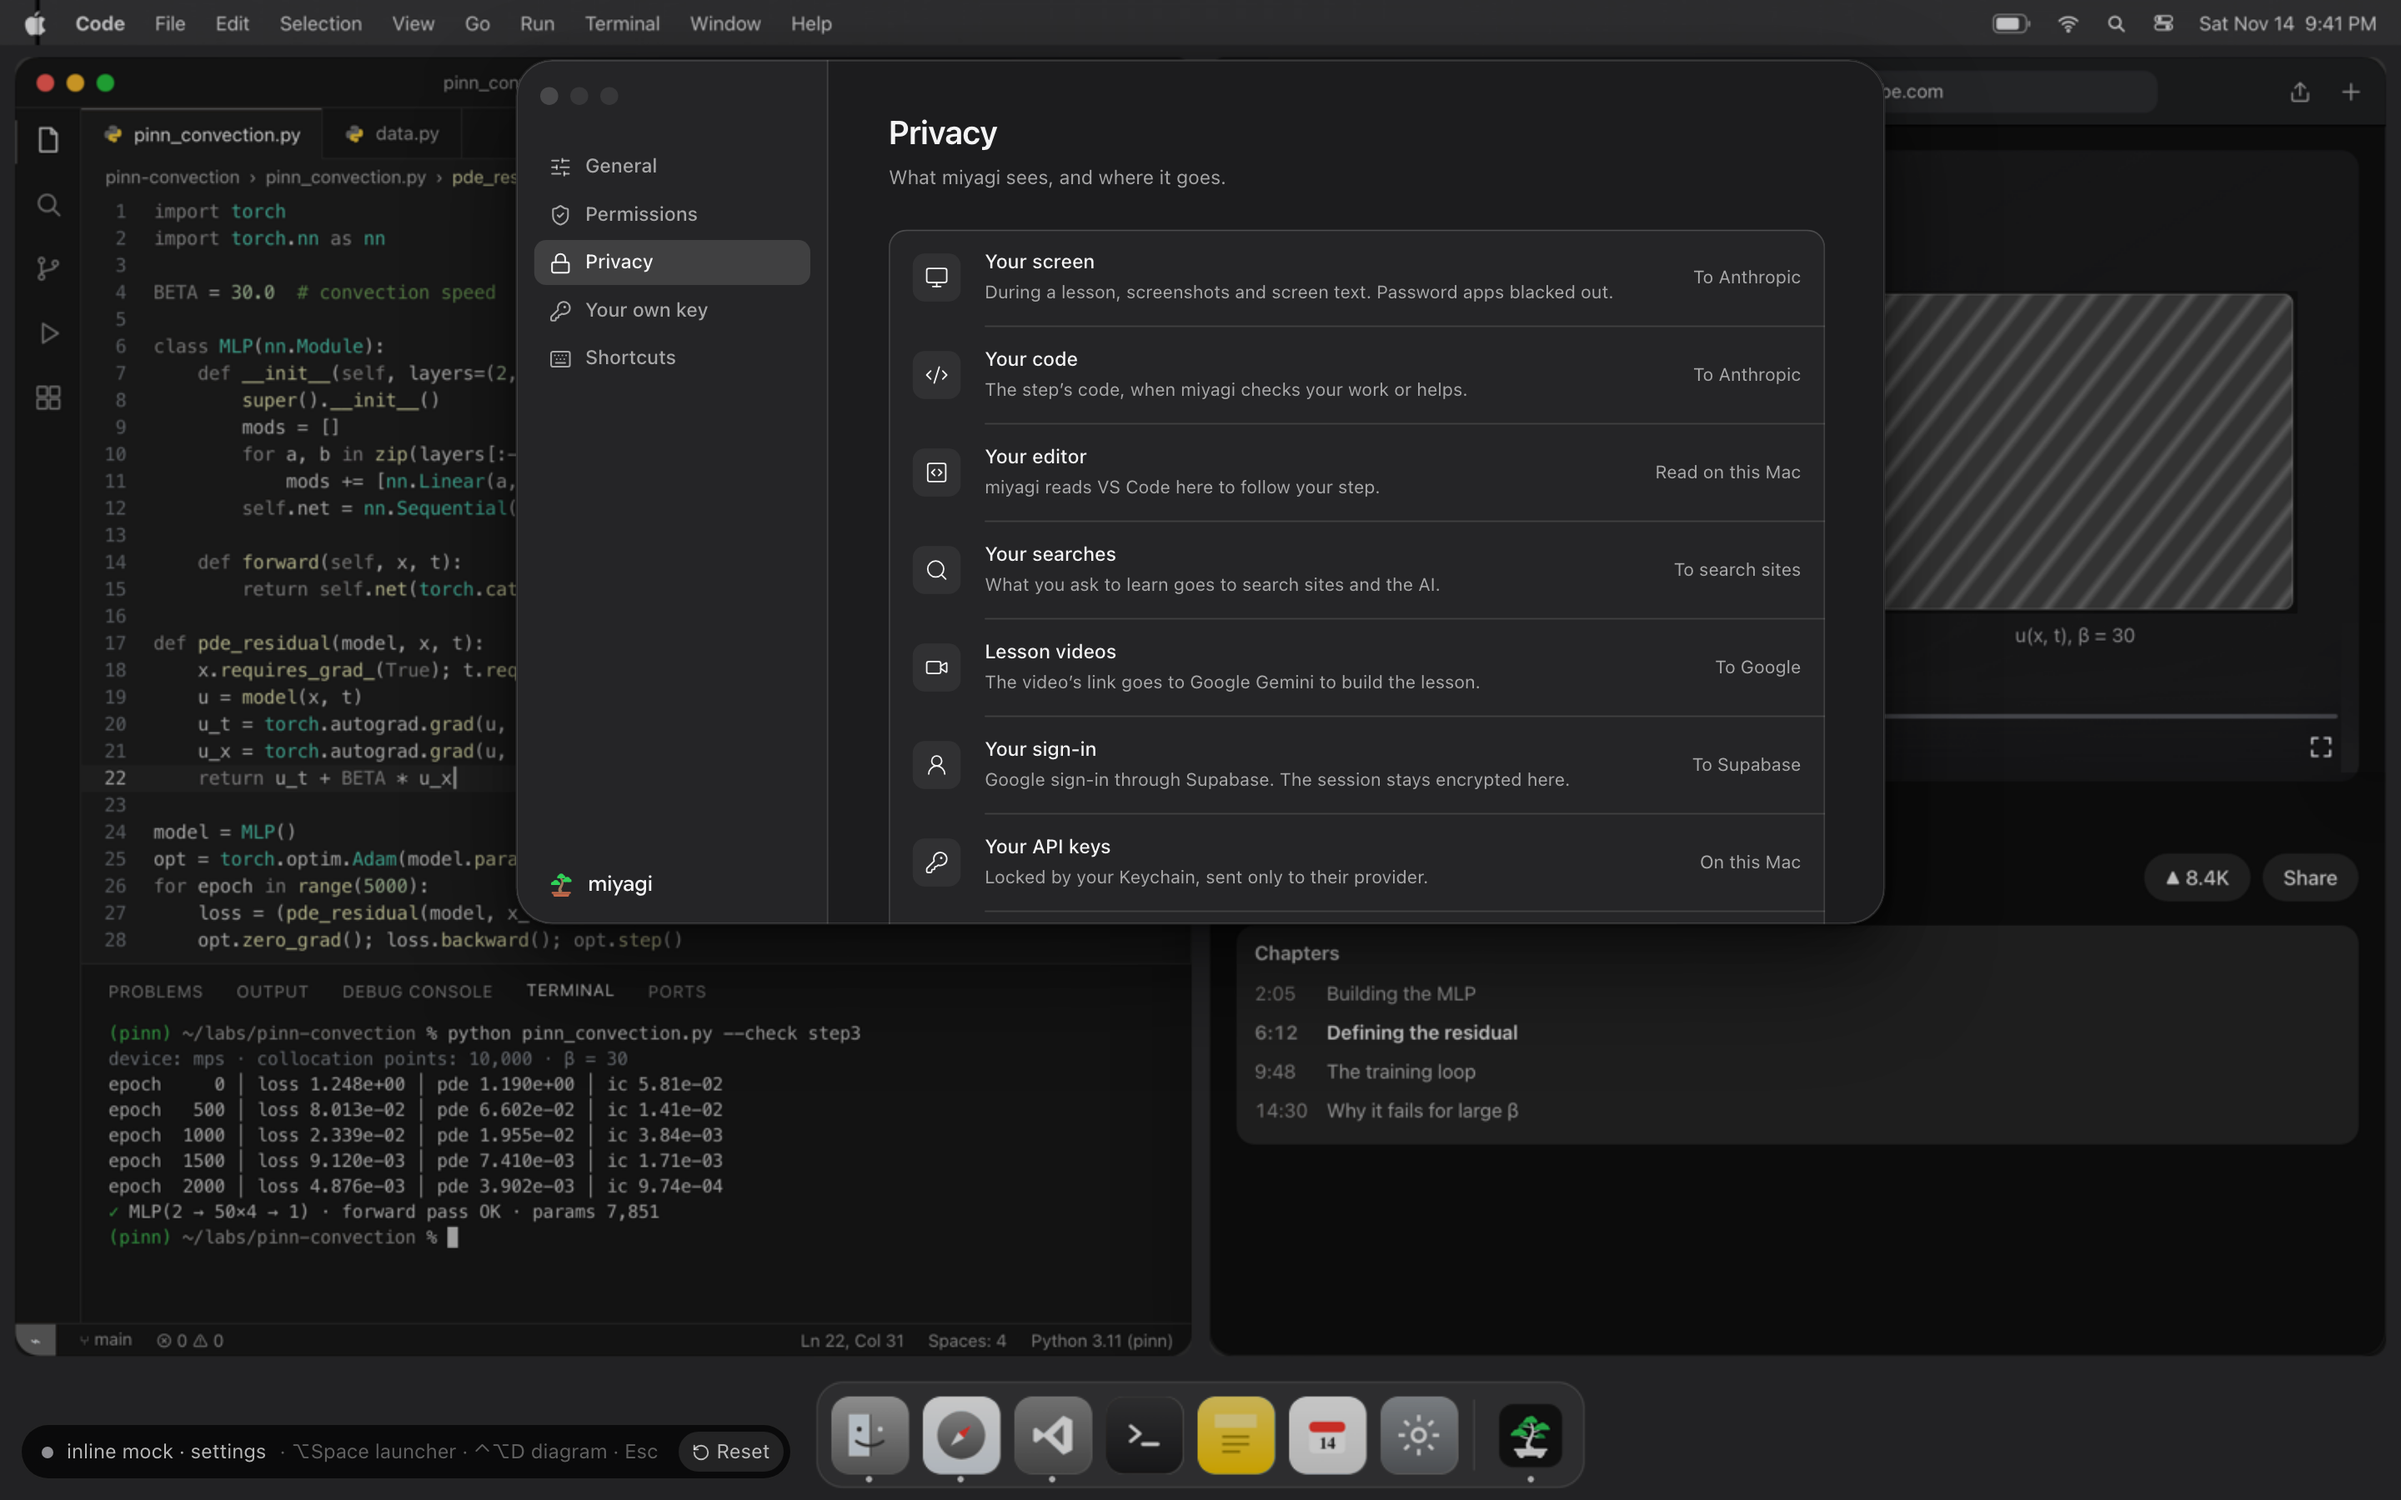
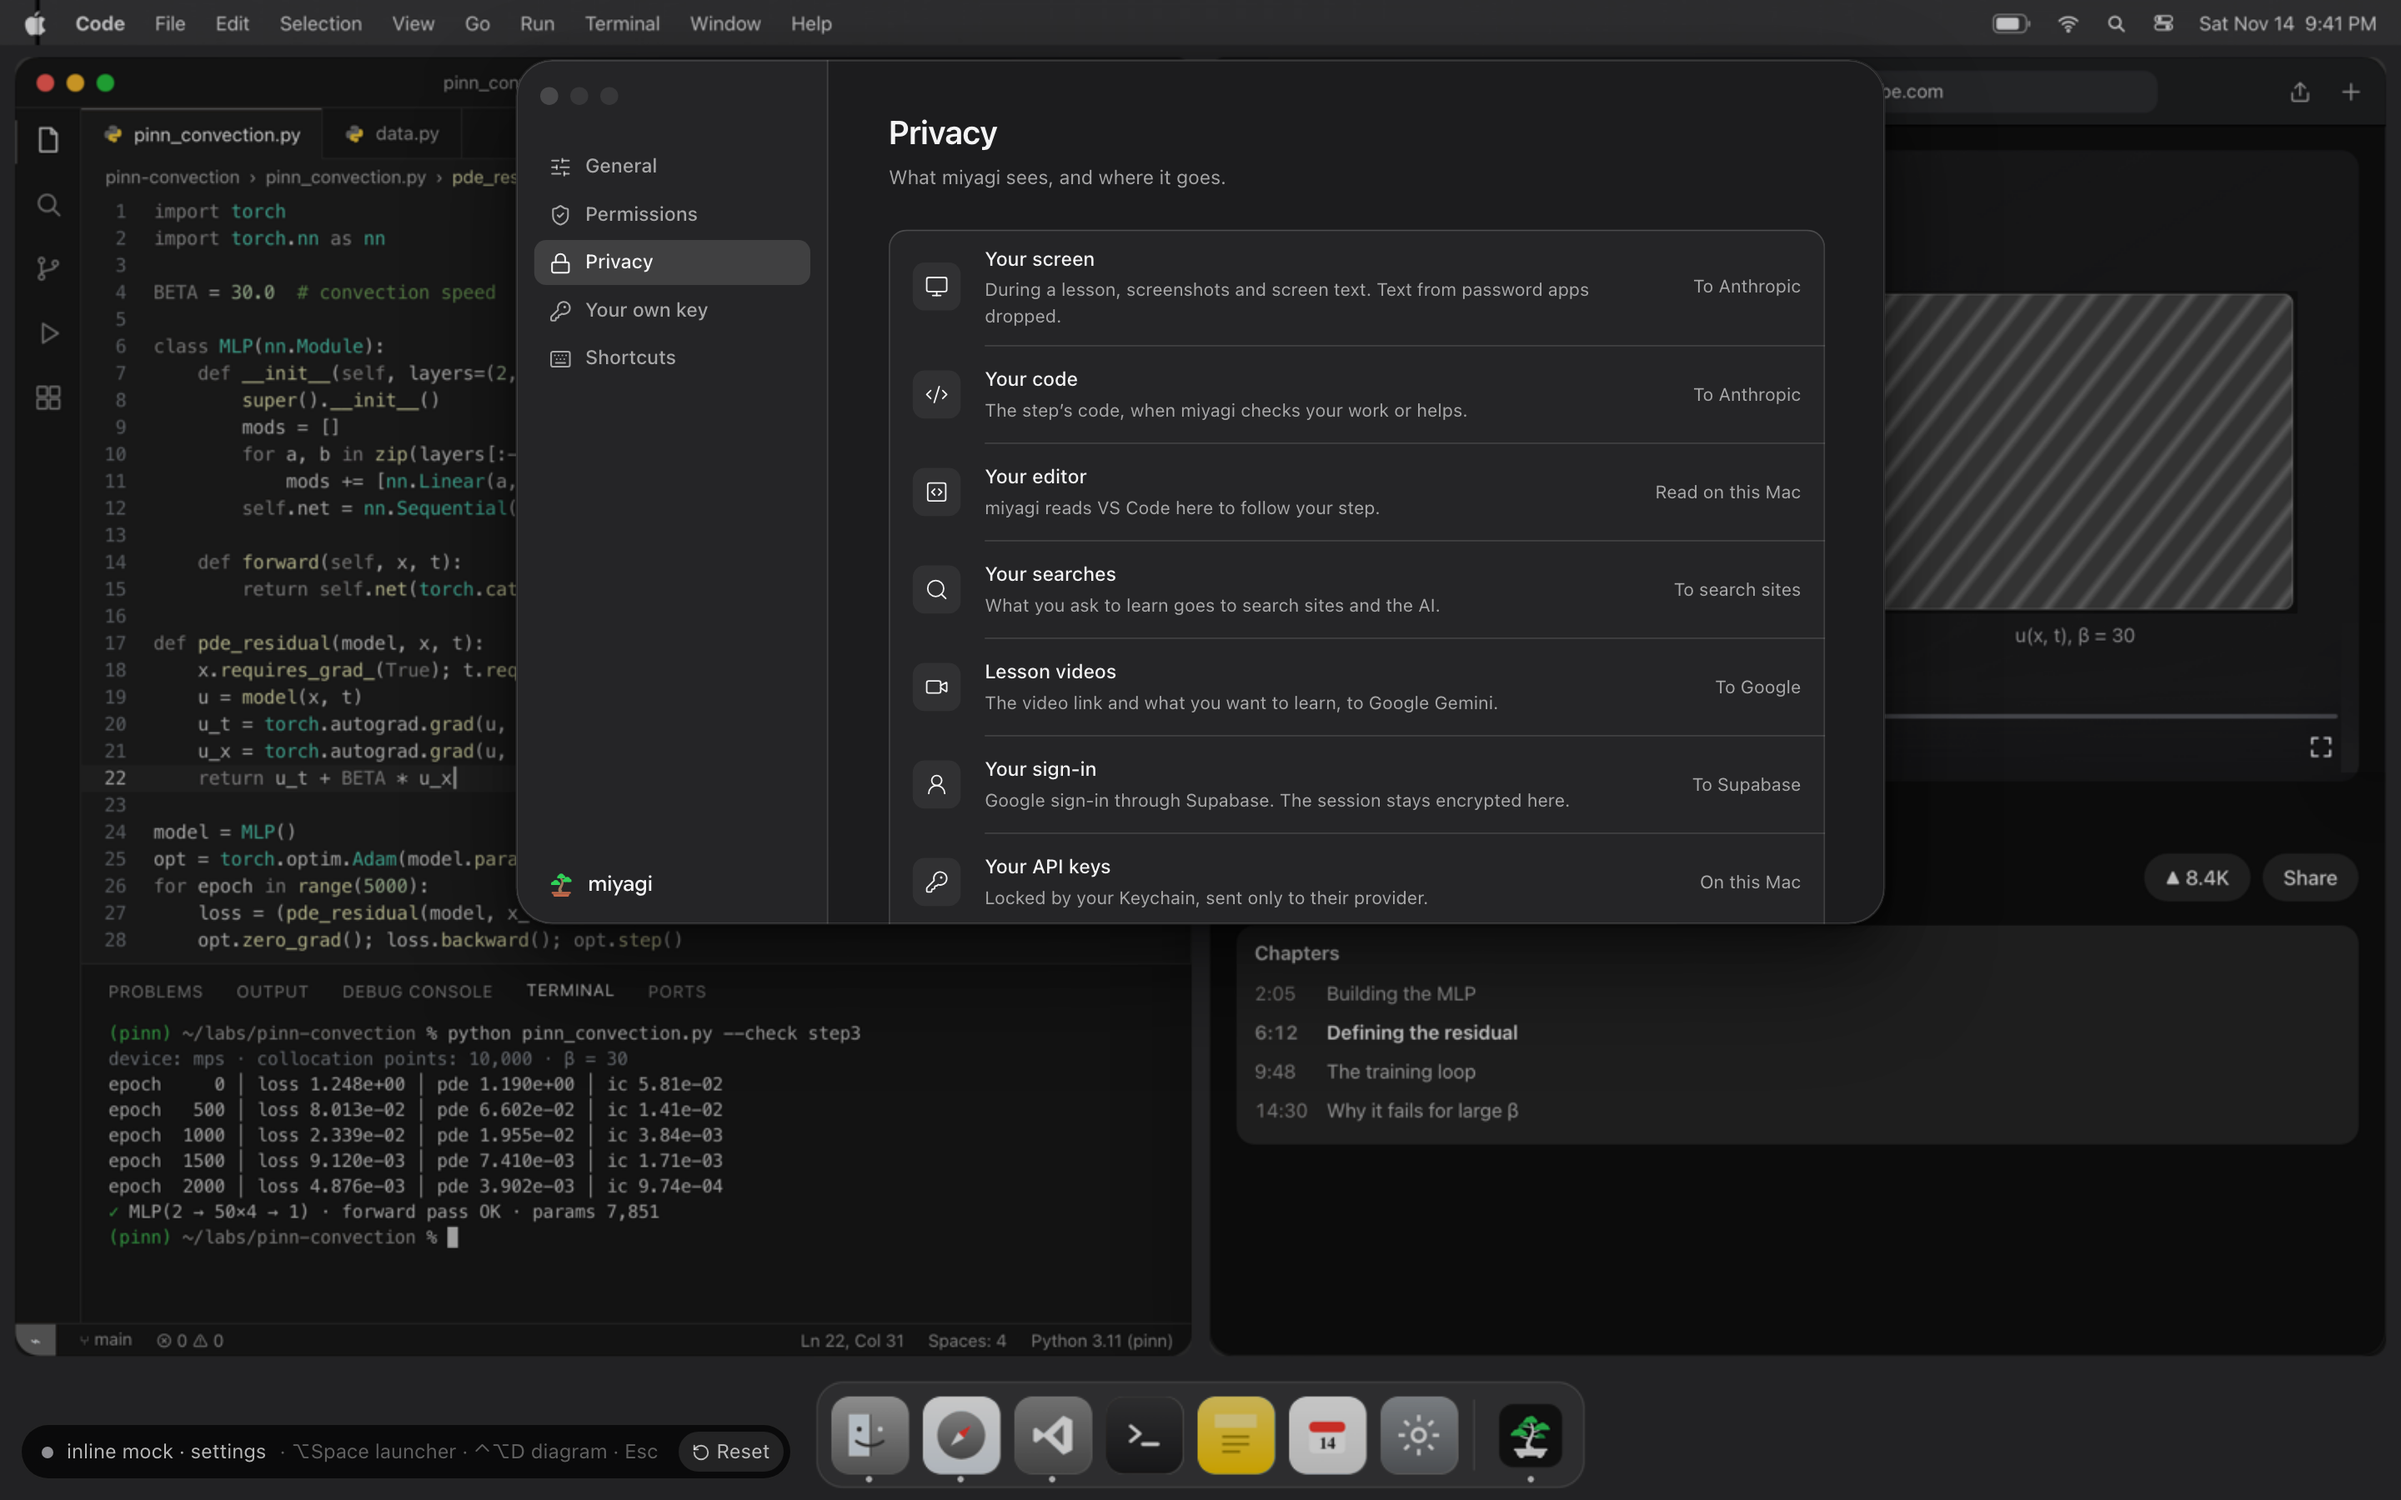
docs(app/privacy): retake privacy-panel shot with the honest copy, wrap header comment

diff --git a/app/src/renderer/src/features/settings/sections/Privacy.tsx b/app/src/renderer/src/features/settings/sections/Privacy.tsx
@@ -9,8 +9,9 @@
  *     once. On: main/features/telemetry.ts sends scrubbed crash lines and lesson counts (the engine its own counts).
  *   - Delete my data is an in-place two-step confirm and erases what lives on this Mac: the keys (main, keys.bin), the
  *     sign-in (main removes auth.bin and login.json, then auth:sign-out, awaited, forgets the session and revokes it)
- *     and the preferences. privacy/erase.ts picks the step: a sign-out that fails is "partial", never "Deleted". It says "on this Mac" because that is all it can reach; lesson folders in ~/miyagi stay (the
- *     learner's own work, kept by the engine) and the confirm says so.
+ *     and the preferences. privacy/erase.ts picks the step: a sign-out that fails is "partial", never "Deleted".
+ *     It says "on this Mac" because that is all it can reach; lesson folders in ~/miyagi stay (the learner's own
+ *     work, kept by the engine) and the confirm says so.
  */
 import { motion } from 'motion/react'
 import { Activity } from 'lucide-react'

diff --git a/app/agents/privacy.md b/app/agents/privacy.md
@@ -62,8 +62,12 @@ Unit: `cd app && node --import tsx --test src/renderer/src/features/settings/pri
 - Delete my data: the flow lives in `privacy/erase.ts` (`eraseData`, `eraseStep`), tested by `privacy/erase.test.ts`.
   It awaits `auth:sign-out` and shows "partial" unless it answers `true`; the signed-in user is cleared in this
   window only when the sign-out is confirmed. auth.ts is untouched (the sign-in-gate lane owns it).
-- Stage shots not retaken this round: a headless capture caught the settings sheet mid-animation. The screen and
-  videos lines in `shots/privacy-panel.png` are the old copy; retake before review.
+
+## Notes (fix round 2)
+- `shots/privacy-panel.png` retaken headlessly (headless Chromium, no window, muted, `settings` scenario, no player):
+  `?scenario=settings&settings=privacy` at 1440x900 @2x, after the dialog is visible plus 1.5 s for the sheet to
+  settle. It shows the current copy: "Text from password apps dropped." and "The video link and what you want to
+  learn, to Google Gemini." `privacy-data.png` and `privacy-confirm.png` show unchanged copy and stay as they are.
 
 ## Open
 - Engine follow-up (not this lane, no server/ edits here): mask private apps in `reader.latest_frame` (pointing
